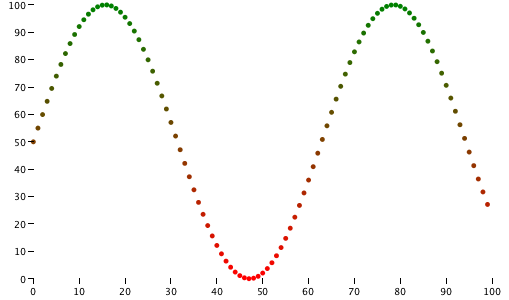
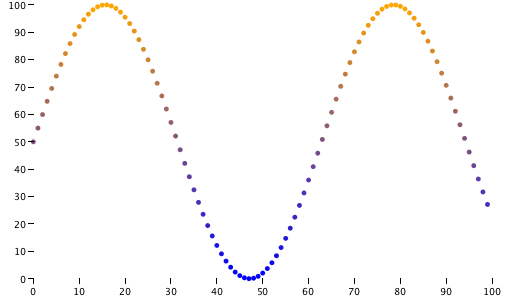
Change continuous gradient color

diff --git a/docs/src/main/tut/colors.md b/docs/src/main/tut/colors.md
@@ -164,7 +164,7 @@ import com.cibo.evilplot.colors._
 import com.cibo.evilplot.plot._
 import com.cibo.evilplot.plot.renderers.PointRenderer
 
-val gradient = ContinuousColoring.gradient(HTMLNamedColors.red, HTMLNamedColors.green)
+val gradient = ContinuousColoring.gradient(HTMLNamedColors.blue, HTMLNamedColors.orange)
 
 val points = Seq.tabulate(100) { i =>
   Point(i.toDouble, (math.sin(i.toDouble / 10) * 50) + 50)
